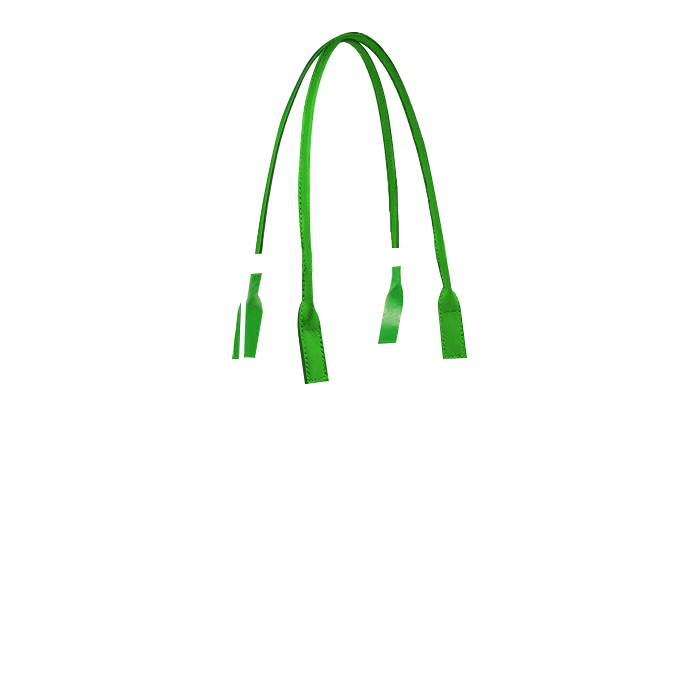
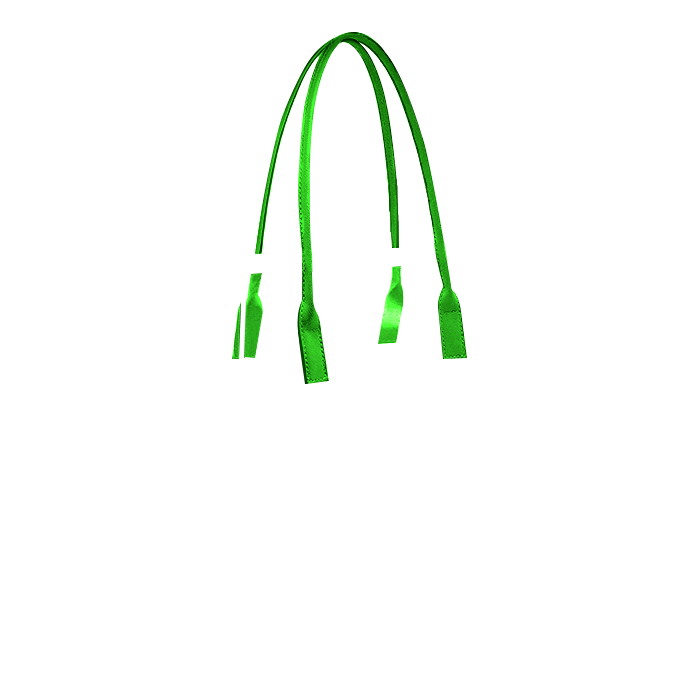
novas cores

diff --git a/assets/style/_colors.scss b/assets/style/_colors.scss
@@ -30,7 +30,11 @@
   filter: brightness(50%) contrast(1.5) saturate(0);
 }
 [data-change-color="branco"] {
-  filter: brightness(150%) contrast(2) grayscale(100%);
+   filter: brightness(140%) contrast(1) grayscale(100%) ;
+}
+
+[data-change-color="cru"] {
+  filter: hue-rotate(310deg) brightness(120%) contrast(1) grayscale(85%) ;
 }
 [data-change-color="cinza"] {
   filter: brightness(70%) contrast(2) grayscale(100%);

diff --git a/main.css b/main.css
@@ -381,7 +381,11 @@ button, input {
 }
 
 [data-change-color=branco] {
-  filter: brightness(150%) contrast(2) grayscale(100%);
+  filter: brightness(140%) contrast(1) grayscale(100%);
+}
+
+[data-change-color=cru] {
+  filter: hue-rotate(310deg) brightness(120%) contrast(1) grayscale(85%);
 }
 
 [data-change-color=cinza] {

diff --git a/assets/script/editColorsMockup.js b/assets/script/editColorsMockup.js
@@ -15,7 +15,8 @@ const listBtnColor = [
   "pink",
   "cinza",
   "musgo",
-  "marinho"
+  "marinho",
+  "cru"
 ];
 export const containerBtnColors = document.createElement("div");
 containerBtnColors.classList.add("container-btn-colors");
